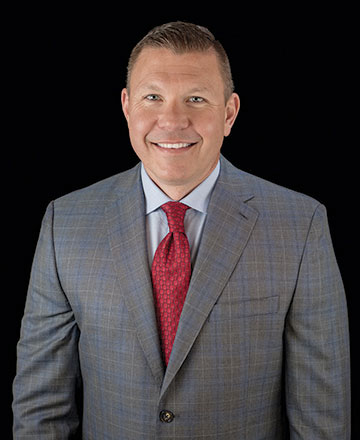
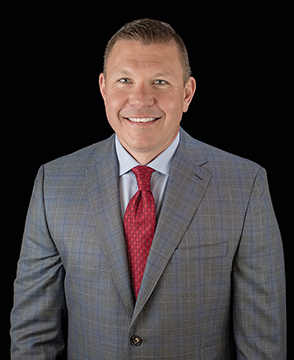
added new team members

diff --git a/index.html b/index.html
@@ -223,27 +223,27 @@
       </div><!-- / .col-lg-3 -->
 
 
-      <!-- Tripp -->
+      <!-- Phil -->
       <div class="col-lg-3 col-md-6 mb-sm-50">
         <div class="t-item">
 
           <!-- Image -->
           <div class="t-image">
-            <img src="assets/images/team/tripp.jpg" alt="Team Member" class="img-responsive">
+            <img src="assets/images/team/phil.jpg" alt="Team Member" class="img-responsive">
             <div class="t-description">
               <div class="content-wrapper">
                 <h4 class="h-alt">Hello!</h4>
-                <p>Results-oriented, full-stack Web Developer with proven skills in analysis, design, development, testing, and implementation of various internet-based applications. Proficient in a variety of platforms, languages, and embedded systems.</p>
+                <p>As a project director, Phil will handle all aspects of the advertising and marketing schedule as well as tracking of deliverables.</p>
               </div>
             </div>
           </div>
 
           <!-- Info -->
           <div class="t-info">
-            <h4 class="t-name">Tripp Delcore</h4>
-            <span class="t-role">Web Developer</span>
+            <h4 class="t-name">Phil Epple</h4>
+            <span class="t-role">Project Director</span>
             <ul class="social-links">
-              <li><a href="https://www.linkedin.com/in/michaeldelcore/"><i class="fa fa-linkedin"></i></a></li>
+              <li><a href="https://www.linkedin.com/in/philip-epple-a17a17195/"><i class="fa fa-linkedin"></i></a></li>
             </ul>
           </div>
 
@@ -284,27 +284,27 @@
     <section class="section-team-row2">
     <div class="row">
 
-      <!-- Kristin -->
+      <!-- Tripp -->
       <div class="col-lg-3 col-md-6 mb-sm-50">
         <div class="t-item">
 
           <!-- Image -->
           <div class="t-image">
-            <img src="assets/images/team/kristin.jpg" alt="Team Member" class="img-responsive">
+            <img src="assets/images/team/tripp.jpg" alt="Team Member" class="img-responsive">
             <div class="t-description">
               <div class="content-wrapper">
                 <h4 class="h-alt">Hello!</h4>
-                <p>An accomplished marketing professional with a background in communications, leadership, writing, PR, sales and nonprofit development.</p>
+                <p>Results-oriented, full-stack Web Developer with proven skills in analysis, design, development, testing, and implementation of various internet-based applications. Proficient in a variety of platforms, languages, and embedded systems.</p>
               </div>
             </div>
           </div>
 
           <!-- Info -->
           <div class="t-info">
-            <h4 class="t-name">Kristin B.</h4>
-            <span class="t-role">Media Buyer</span>
+            <h4 class="t-name">Tripp Delcore</h4>
+            <span class="t-role">Web Developer</span>
             <ul class="social-links">
-              <li><a href="http://linkedin.com/in/kristin-battenfield-78750422"><i class="fa fa-linkedin"></i></a></li>
+              <li><a href="https://www.linkedin.com/in/michaeldelcore/"><i class="fa fa-linkedin"></i></a></li>
             </ul>
           </div>
 
@@ -430,35 +430,33 @@
       </div><!-- / .col-lg-3 -->
 
 
-      <!-- Member 2 -->
+      <!-- Kristin -->
       <div class="col-lg-3 col-md-6 mb-sm-50">
         <div class="t-item">
 
           <!-- Image -->
           <div class="t-image">
-            <img src="http://placehold.it/360x440" alt="Team Member" class="img-responsive">
+            <img src="assets/images/team/kristin.jpg" alt="Team Member" class="img-responsive">
             <div class="t-description">
               <div class="content-wrapper">
                 <h4 class="h-alt">Hello!</h4>
-                <p>Lorem ipsum dolor sit amet, consectetur adipisicing elit, sed do eiusmod tempor incididunt ut labore et dolore magna aliqua. Ut enim ad minim veniam, quis nostrud.</p>
+                <p>An accomplished marketing professional with a background in communications, leadership, writing, PR, sales and nonprofit development.</p>
               </div>
             </div>
           </div>
 
           <!-- Info -->
           <div class="t-info">
-            <h4 class="t-name">Carol Greene</h4>
-            <span class="t-role">Art Director</span>
+            <h4 class="t-name">Kristin B.</h4>
+            <span class="t-role">Media Buyer</span>
             <ul class="social-links">
-              <li><a href="#"><i class="fa fa-facebook"></i></a></li>
-              <li><a href="#"><i class="fa fa-twitter"></i></a></li>
-              <li><a href="#"><i class="fa fa-linkedin"></i></a></li>
-              <li><a href="#"><i class="fa fa-dribbble"></i></a></li>
+              <li><a href="http://linkedin.com/in/kristin-battenfield-78750422"><i class="fa fa-linkedin"></i></a></li>
             </ul>
           </div>
 
         </div><!-- / .t-item -->
       </div><!-- / .col-lg-3 -->
+
 
 
       <!-- Member 3 -->
@@ -478,13 +476,10 @@
 
           <!-- Info -->
           <div class="t-info">
-            <h4 class="t-name">Tyler Owens</h4>
+            <h4 class="t-name">Jane Doe</h4>
             <span class="t-role">Lead Designer</span>
             <ul class="social-links">
-              <li><a href="#"><i class="fa fa-facebook"></i></a></li>
-              <li><a href="#"><i class="fa fa-twitter"></i></a></li>
               <li><a href="#"><i class="fa fa-linkedin"></i></a></li>
-              <li><a href="#"><i class="fa fa-dribbble"></i></a></li>
             </ul>
           </div>
 
@@ -508,8 +503,8 @@
           <!-- Info -->
           <div class="t-info">
             <h4 class="t-name">You?</h4>
-            <span class="t-role">Junior Developer</span>
-            <button class="btn btn-small" type="file">send cv</button>
+            <span class="t-role">Job Title</span>
+            <button class="btn btn-small" type="file">send resume</button>
           </div>
 
         </div><!-- / .t-item -->
